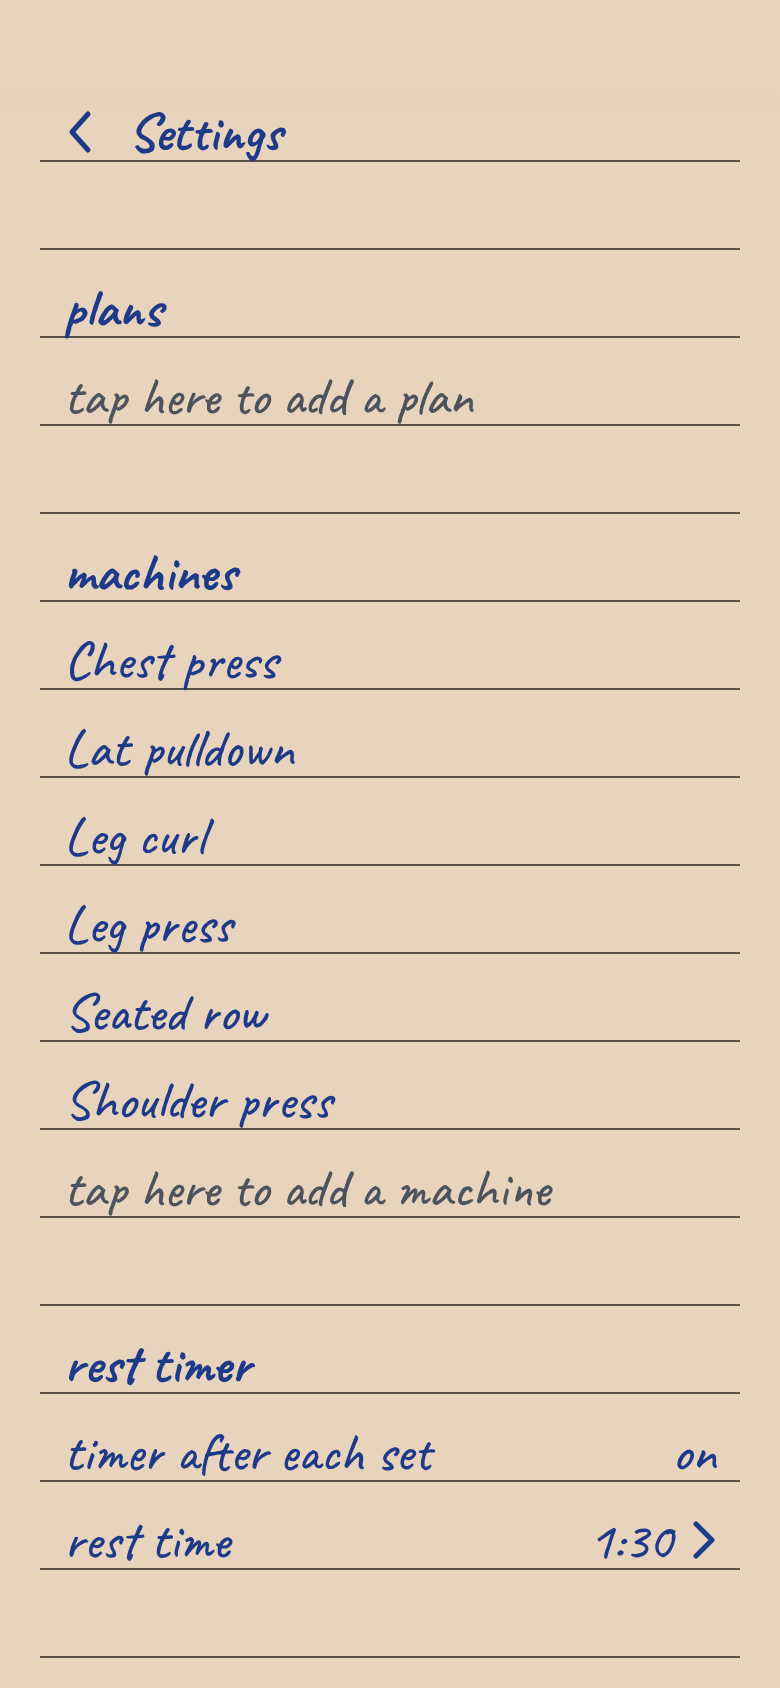
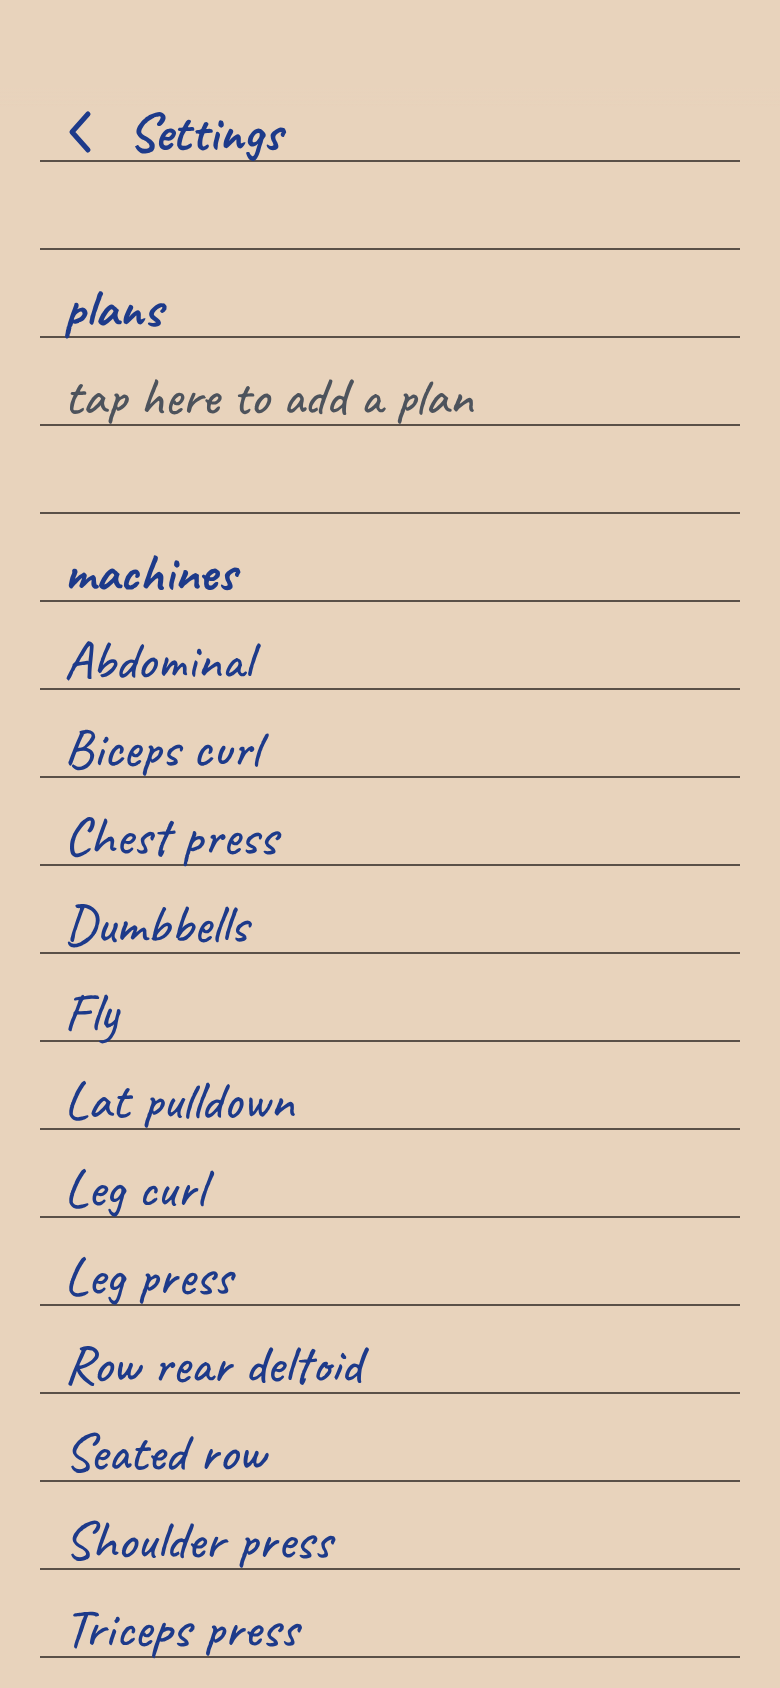
Start a new notebook with twelve machines
Abdominal, Biceps curl, Chest press, Dumbbells, Fly, Lat pulldown,
Leg curl, Leg press, Row rear deltoid, Seated row, Shoulder press and
Triceps press. The six machines it had keep their ids.

diff --git a/index.html b/index.html
@@ -1765,15 +1765,21 @@ button {
         .map((line) => (keepDates.has(line.id) ? { ...line, example: undefined } : line));
     }
 
-    /** The data a new notebook starts with: six machines, no plans and five example days. */
+    /** The data a new notebook starts with: twelve machines, no plans and five example days. */
     static exampleData() {
       const machines = [
-        { id: 'm-leg-press', name: 'Leg press' },
+        { id: 'm-abdominal', name: 'Abdominal' },
+        { id: 'm-biceps-curl', name: 'Biceps curl' },
         { id: 'm-chest-press', name: 'Chest press' },
+        { id: 'm-dumbbells', name: 'Dumbbells' },
+        { id: 'm-fly', name: 'Fly' },
         { id: 'm-lat-pulldown', name: 'Lat pulldown' },
-        { id: 'm-shoulder-press', name: 'Shoulder press' },
-        { id: 'm-seated-row', name: 'Seated row' },
         { id: 'm-leg-curl', name: 'Leg curl' },
+        { id: 'm-leg-press', name: 'Leg press' },
+        { id: 'm-row-rear-deltoid', name: 'Row rear deltoid' },
+        { id: 'm-seated-row', name: 'Seated row' },
+        { id: 'm-shoulder-press', name: 'Shoulder press' },
+        { id: 'm-triceps-press', name: 'Triceps press' },
       ];
       const byName = new Map(machines.map((m) => [m.name, m]));
       const sessions = [

diff --git a/tests/notebook.test.js b/tests/notebook.test.js
@@ -192,9 +192,12 @@ test('exampleData: five days, every machine line points at a machine, every id i
   assert.equal(new Set(data.lines.map((l) => l.id)).size, data.lines.length);
 });
 
-test('exampleData: six machines and no plans', () => {
+test('exampleData: twelve machines, each with its own id and name, and no plans', () => {
   const data = Notebook.exampleData();
-  assert.equal(data.machines.length, 6);
+  assert.equal(data.machines.length, 12);
+  assert.equal(new Set(data.machines.map((m) => m.id)).size, 12);
+  assert.equal(new Set(data.machines.map((m) => m.name.toLowerCase())).size, 12);
+  assert.ok(data.machines.some((m) => m.id === 'm-leg-press' && m.name === 'Leg press')); // the ids older notebooks use
   assert.deepEqual(data.plans, []);
 });
 

diff --git a/design/README.md b/design/README.md
@@ -2,7 +2,7 @@
 
 Screenshots of the app, one per screen, in the order you meet them. Every screen is 390 × 844 (iPhone 13), taken at 2×.
 
-They are pictures of the real `index.html`, so they show what is built. Screens 13 and 14 were taken before settings had its plans part, so that part is missing behind their panels. The numbers and dates are examples: "today" is 23/11. Screens 15, 16 and 18 use a made-up year of training.
+They are pictures of the real `index.html`, so they show what is built. Screens 07 to 10 and 13 to 18 were taken when a new notebook had six machines and settings had no plans part; it now starts with twelve machines, so those show a shorter list than you see today. The numbers and dates are examples: "today" is 23/11. Screens 15, 16 and 18 use a made-up year of training.
 
 | Group | Screen | What it shows |
 | --- | --- | --- |
